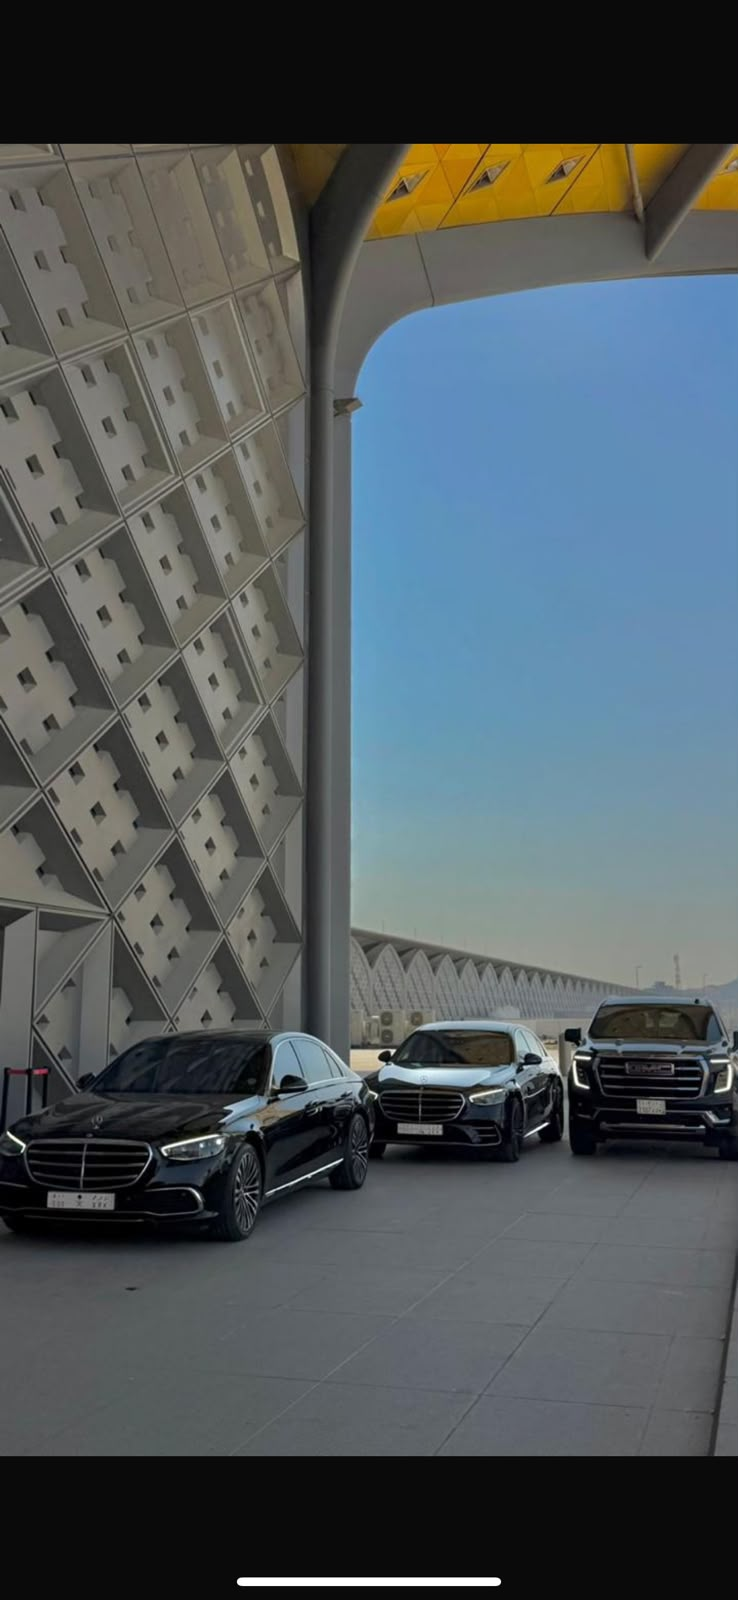
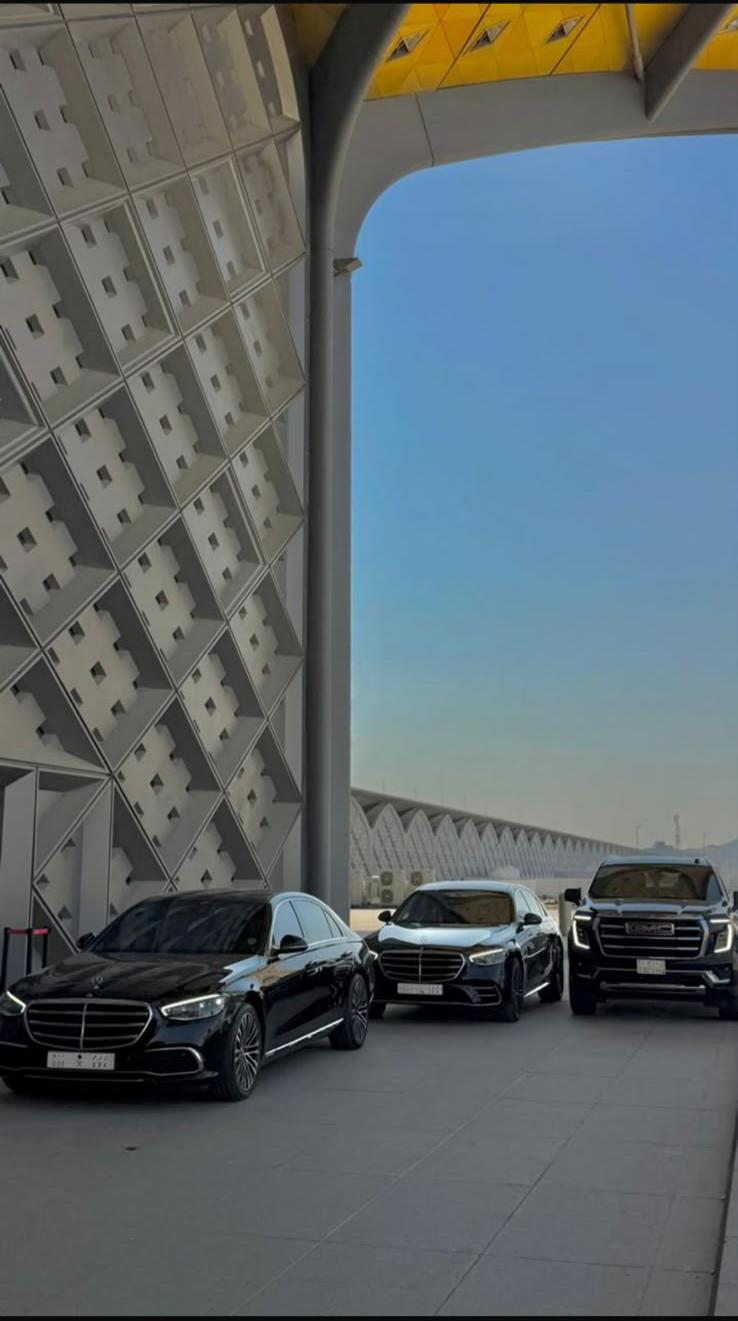
Edit:image edit

diff --git a/src/app/Layouts/home/home.html b/src/app/Layouts/home/home.html
@@ -9,7 +9,7 @@
 
         <article id="hero"
             class="relative left-1/2 right-1/2 -mt-4 -ml-[50vw] -mr-[50vw] min-h-[600px] w-screen overflow-hidden sm:min-h-[680px]">
-            <img class="absolute inset-0 size-full object-cover object-center" src="hero.jpg"
+            <img class="absolute inset-0 size-full object-cover object-center" src="aboutImage.jpg"
                 alt="RoyalRide luxury fleet">
             <div class="absolute inset-0 bg-gradient-to-b from-[#07111a]/90 via-black/25 to-[#0b0805]/90"></div>
             <header
